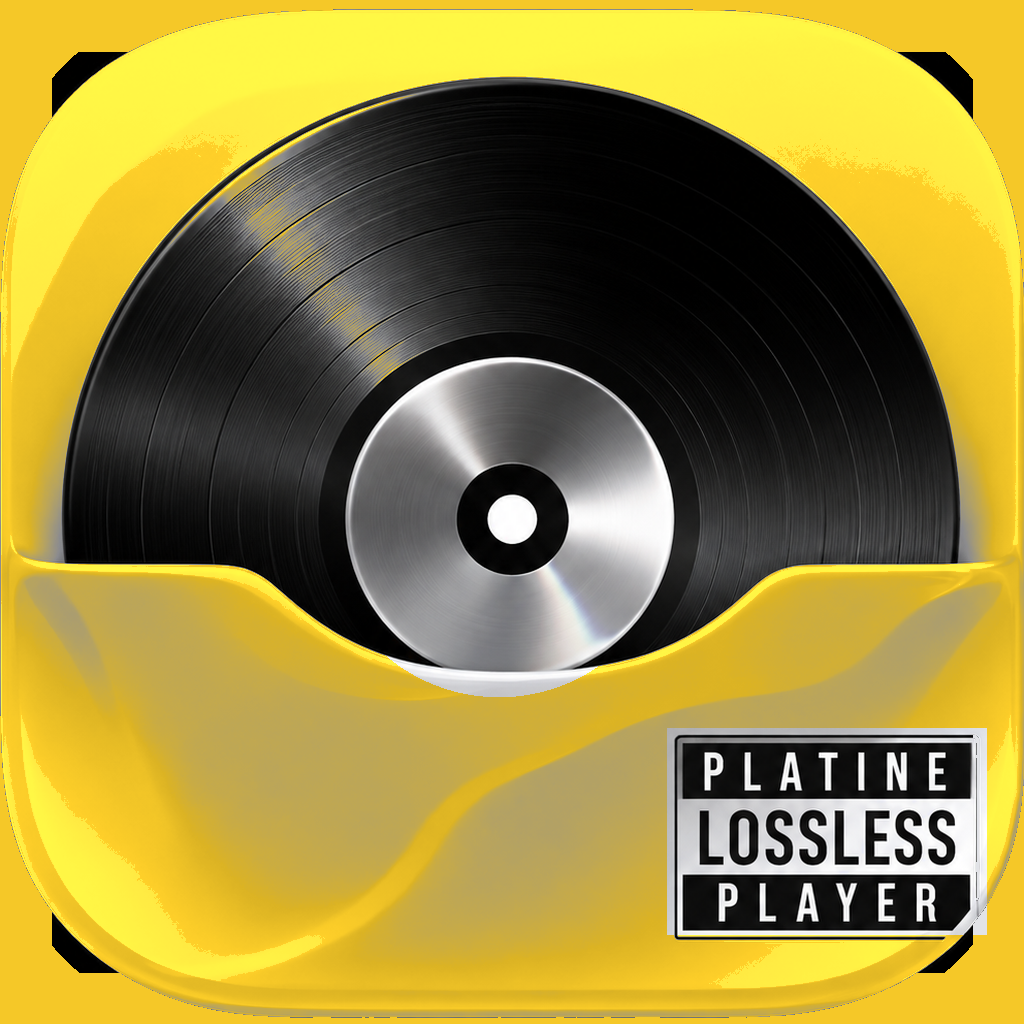
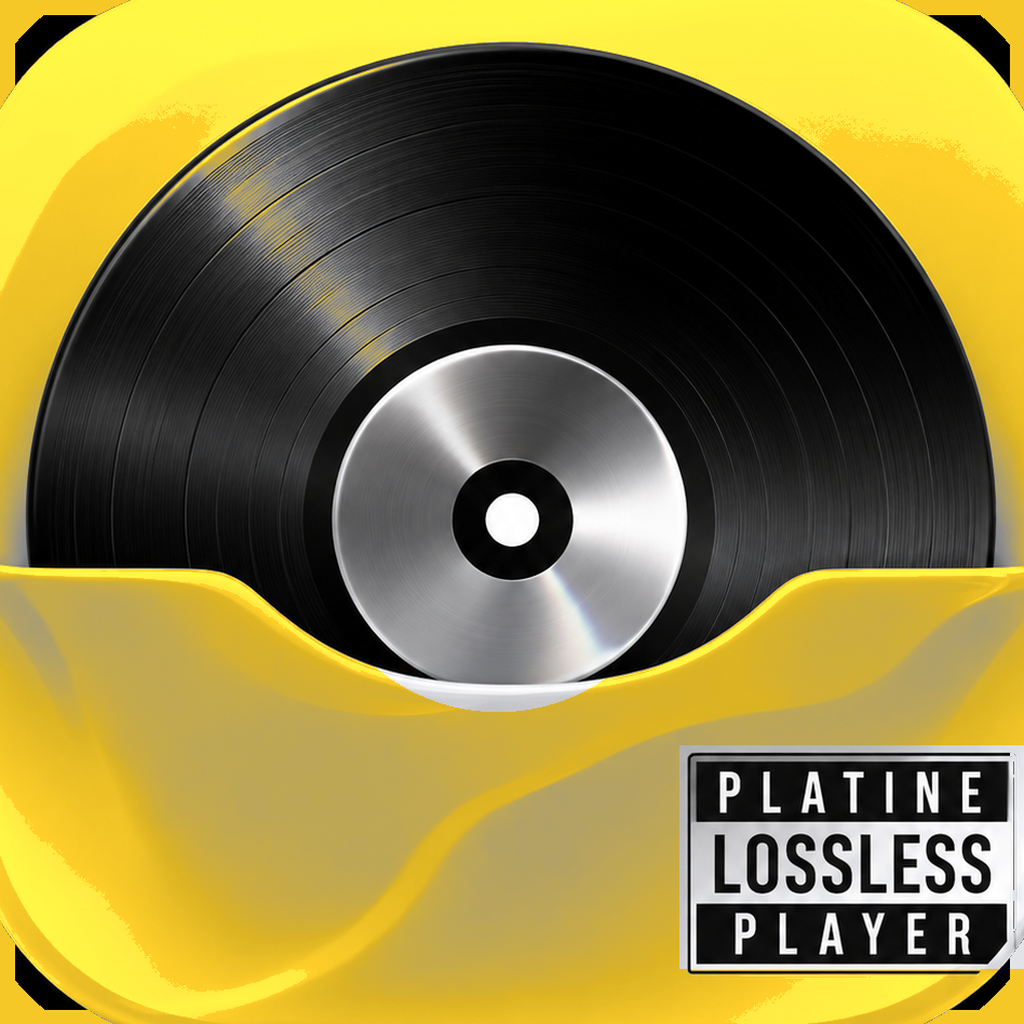
11.2 : la vraie pochette reste sous la pochette animée (écran verrouillé), pochettes jusqu'en 3000 px, coins de l'icône nettoyés
Claude-Session: https://claude.ai/code/session_01KHRUw9uwKwZcH3GitjwL6r

diff --git a/Library.swift b/Library.swift
@@ -86,9 +86,28 @@ final class Library {
     func stillURL(_ t: Track) -> URL? {
         if let c = t.customArtwork, (t.customKind ?? .image) == .image { return Self.artDir.appendingPathComponent(c) }
         if let e = t.embeddedArtwork { return Self.artDir.appendingPathComponent(e) }
-        // Un morceau sans aucune pochette prend celle choisie pour son album.
-        if !hasOwnArtwork(t), let c = albumCovers[t.albumKey], c.kind == .image { return Self.artDir.appendingPathComponent(c.file) }
+        // Sinon, la vraie pochette de l'album — même si le morceau a une pochette animée :
+        // l'animation s'ajoute à la pochette, elle ne la remplace pas.
+        if let c = albumCovers[t.albumKey], c.kind == .image { return Self.artDir.appendingPathComponent(c.file) }
+        // Pas de pochette d'album choisie : celle d'un autre son du même album.
+        if !t.album.isEmpty, let name = siblingStill(t) { return Self.artDir.appendingPathComponent(name) }
         return nil
+    }
+
+    /// La pochette (image) d'un autre morceau du même album, gardée en mémoire par album.
+    @ObservationIgnored private var siblingCache: [String: String] = [:]
+    @ObservationIgnored private var siblingCacheRevision = -1
+    private func siblingStill(_ t: Track) -> String? {
+        if siblingCacheRevision != artworkRevision || siblingCache.isEmpty {
+            var map: [String: String] = [:]
+            for x in tracks where !x.album.isEmpty && map[x.albumKey] == nil {
+                if let c = x.customArtwork, (x.customKind ?? .image) == .image { map[x.albumKey] = c }
+                else if let e = x.embeddedArtwork { map[x.albumKey] = e }
+            }
+            siblingCache = map
+            siblingCacheRevision = artworkRevision
+        }
+        return siblingCache[t.albumKey]
     }
 
     /// Le morceau a-t-il une pochette à lui (fichier audio, choisie, ou animée) ?
@@ -907,7 +926,7 @@ final class Library {
     }
 
     func setExtraImage(_ image: UIImage, kind: String, key: String) {
-        let maxSide: CGFloat = 1400
+        let maxSide: CGFloat = 3000
         let scale = min(1, maxSide / max(image.size.width, image.size.height, 1))
         let target = CGSize(width: image.size.width * scale, height: image.size.height * scale)
         let resized = UIGraphicsImageRenderer(size: target).image { _ in image.draw(in: CGRect(origin: .zero, size: target)) }
@@ -1250,7 +1269,7 @@ final class Library {
     // MARK: Persistance
 
     private func saveImage(_ image: UIImage, prefix: String = "") -> String? {
-        let maxSide: CGFloat = 1400
+        let maxSide: CGFloat = 3000
         let scale = min(1, maxSide / max(image.size.width, image.size.height, 1))
         let size = CGSize(width: image.size.width * scale, height: image.size.height * scale)
         let format = UIGraphicsImageRendererFormat()

diff --git a/WifiTransfer.swift b/WifiTransfer.swift
@@ -500,7 +500,7 @@ function render(e,S){const cv=el('canvas');cv.width=cv.height=S;const prev=ed;ed
 function put(url,body,onp){return new Promise(res=>{const x=new XMLHttpRequest();x.open('PUT',url);if(onp)x.upload.onprogress=e=>onp(e.loaded/(e.total||1));x.onload=()=>res(x.status==200);x.onerror=()=>res(false);x.send(body)})}
 async function sendArt(){if(!ed||!sel)return;let target;const some=document.querySelector('input[name=tg][value=some]').checked;
 if(some){const ids=[...document.querySelectorAll('#tl input:checked')].map(i=>i.value);if(!ids.length){status('Coche au moins un son.','err');return}target='tracks='+ids.join(',')}else target='album='+encodeURIComponent(sel.id);
-const body=ed.kind=='image'?await render(ed,1400):ed.file;$('#go').disabled=true;busy=true;const bar=$('#ebar');bar.style.display='block';status('Envoi…');
+const body=ed.kind=='image'?await render(ed,3000):ed.file;$('#go').disabled=true;busy=true;const bar=$('#ebar');bar.style.display='block';status('Envoi…');
 const okk=await put(`/api/artwork?ext=${ed.ext}&${target}`,body,p=>bar.querySelector('i').style.width=(p*100)+'%');busy=false;$('#go').disabled=false;
 if(okk){status('✓ Pochette posée sur l’iPhone','ok');ver[sel.id]=Date.now();if(ed.kind!='image')sel.animated=true;renderGrid()}else status('L’envoi a échoué. L’écran Envoi par Wi‑Fi est-il toujours ouvert ?','err')}
 
@@ -515,7 +515,7 @@ const st=el('div');st.style.color='var(--muted)';b.st=st;r.append(th,n,s,st);L.a
 const esc=s=>(s||'').replace(/[&<>"]/g,c=>({'&':'&amp;','<':'&lt;','>':'&gt;','"':'&quot;'}[c]));
 $('#bulkCancel').onclick=()=>$('#dlg').close();
 $('#bulkSend').onclick=async()=>{busy=true;$('#bulkSend').disabled=true;for(const b of bulk){if(!b.a){b.st.textContent='—';continue}b.st.textContent='…';const k=kindOf(b.f);let body=b.f;
-if(k.kind=='image'){const img=await new Promise(r=>{const i=new Image();i.onload=()=>r(i);i.onerror=()=>r(null);i.src=URL.createObjectURL(b.f)});if(!img){b.st.textContent='Illisible';continue}body=await render({img,zoom:1,ox:0,oy:0,rot:0,b:100,c:100,s:100},1400)}
+if(k.kind=='image'){const img=await new Promise(r=>{const i=new Image();i.onload=()=>r(i);i.onerror=()=>r(null);i.src=URL.createObjectURL(b.f)});if(!img){b.st.textContent='Illisible';continue}body=await render({img,zoom:1,ox:0,oy:0,rot:0,b:100,c:100,s:100},3000)}
 const r=await put(`/api/artwork?ext=${k.ext}&album=${encodeURIComponent(b.a.id)}`,body);b.st.textContent=r?'✓':'Erreur';b.st.style.color=r?'var(--ok)':'var(--accent)';if(r){ver[b.a.id]=Date.now();if(k.kind!='image')b.a.animated=true}}
 busy=false;$('#bulkSend').disabled=false;renderGrid()};
 </script></body></html>

diff --git a/TrackEnricher.swift b/TrackEnricher.swift
@@ -230,7 +230,7 @@ enum TrackEnricher {
             name = String(name.dropLast(suffix.count))
         }
         let year = Int((best.releaseDate ?? "").prefix(4)) ?? 0
-        let art = best.artworkUrl100.map { $0.replacingOccurrences(of: "100x100bb", with: "1400x1400bb") }
+        let art = best.artworkUrl100.map { $0.replacingOccurrences(of: "100x100bb", with: "3000x3000bb") }
         return Found(album: name, year: year, number: isSingle(best) ? 0 : (best.trackNumber ?? 0),
                      cover: art.flatMap(URL.init(string:)))
     }
